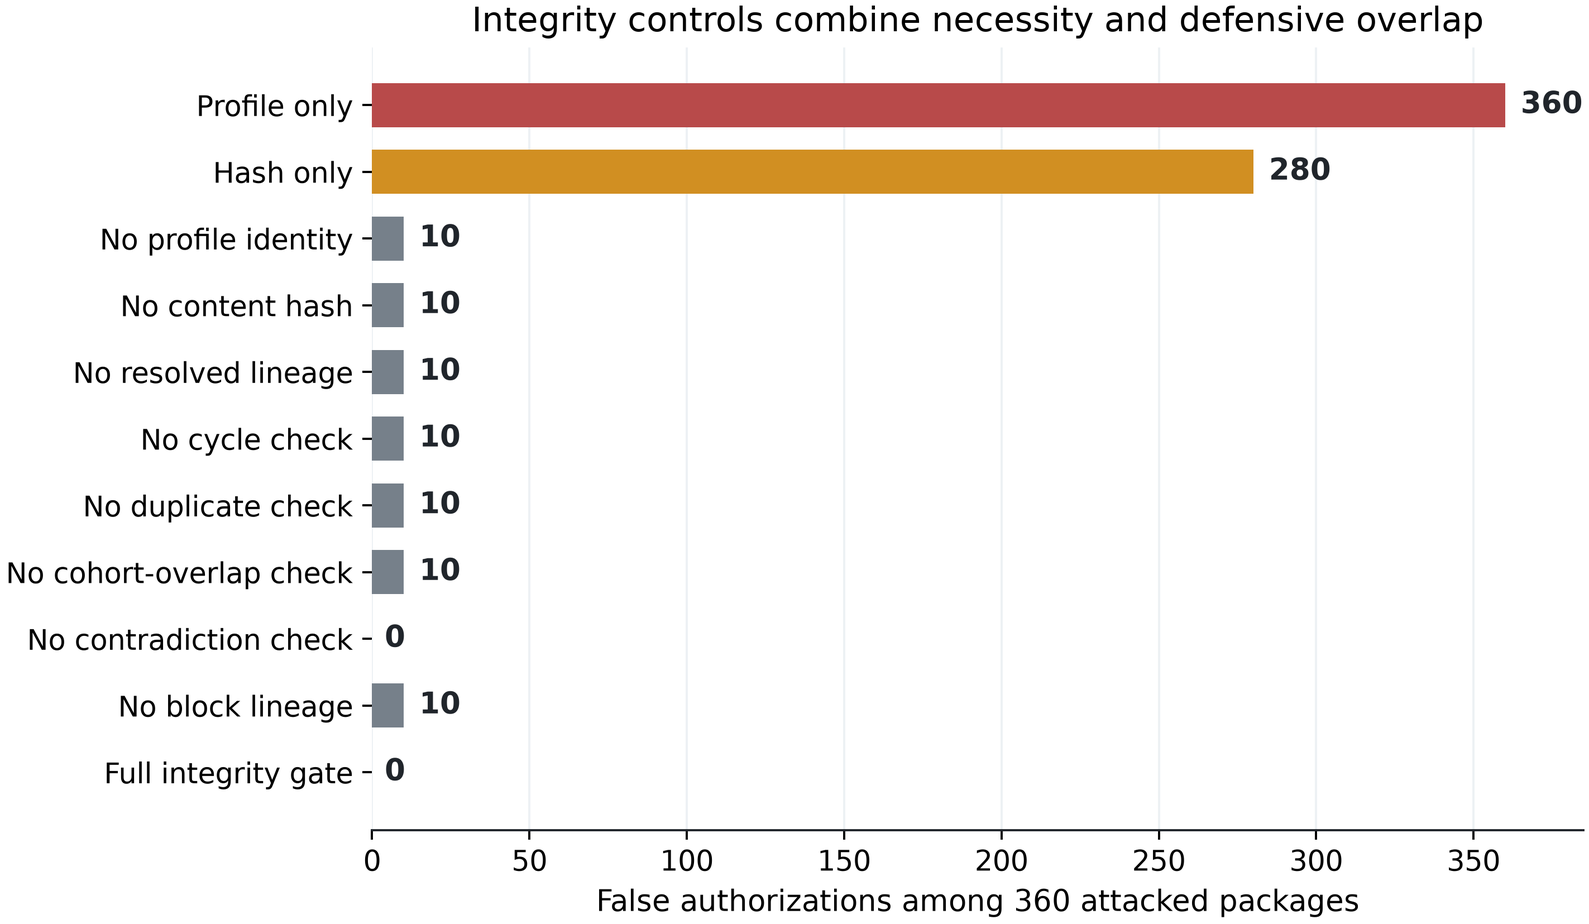
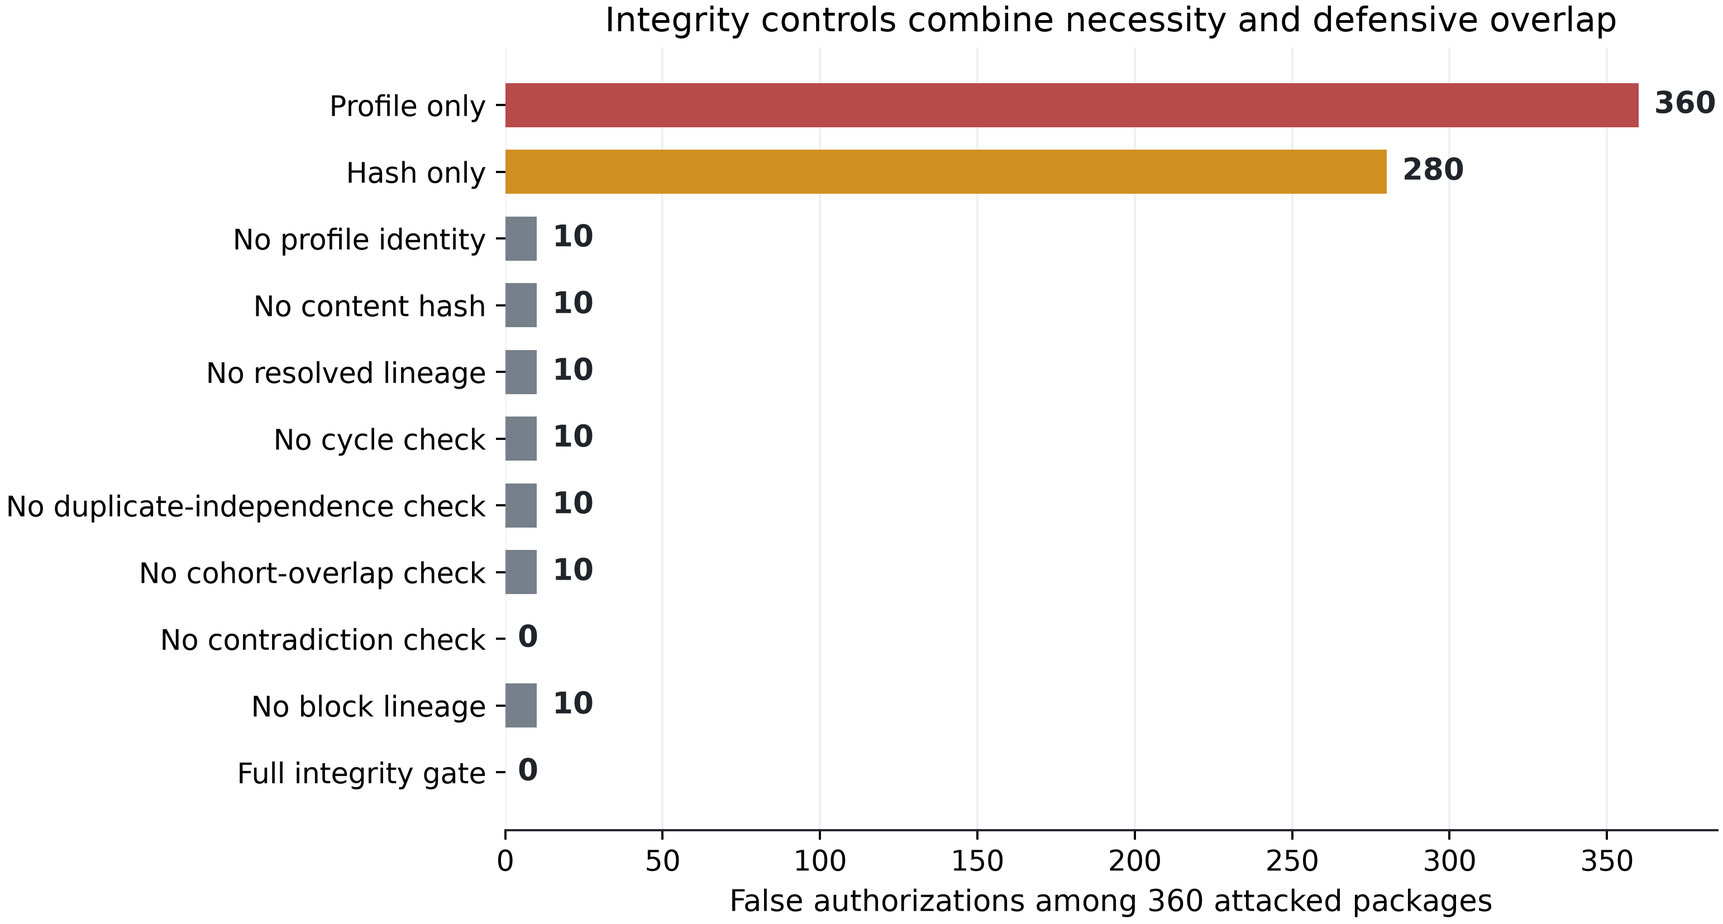
Apply KBS v0.12.5 closure corrections

diff --git a/tests/test_manuscript_quality.py b/tests/test_manuscript_quality.py
@@ -280,6 +280,49 @@ def test_final_review_integrity_notation_and_editorial_files_are_consistent() ->
     assert captions.count("Figure ") == 5
 
 
+def test_submission_closure_editorial_guards() -> None:
+    manuscript = "\n".join(
+        path.read_text(encoding="utf-8") for path in MANUSCRIPT_PATHS
+    )
+    highlights = (ROOT / "highlights.txt").read_text(encoding="utf-8")
+    readme = (ROOT / "README.md").read_text(encoding="utf-8")
+    bibliography = (ROOT / "references.bib").read_text(encoding="utf-8")
+    figure_source = (
+        ROOT / "scripts" / "build_standards_prospective_figures.py"
+    ).read_text(encoding="utf-8")
+
+    assert "2,550 declared attack compositions" not in highlights
+    assert (
+        "All 2,550 attacked packages across 255 compositions are blocked with exact traces."
+        in highlights
+    )
+    assert "complete and individually necessary deficits" not in highlights
+    assert "sufficient and individually necessary deficit sets" in highlights
+    assert "naive pair-level inference is anti-conservative" not in manuscript
+    assert (
+        "Shared-neuron dependence is explicitly addressed rather than treating "
+        "directed pairs as independent."
+    ) in manuscript
+    assert (
+        "Both DANDI outcomes are preserved without post-access changes to "
+        "endpoints, thresholds, or selection rules."
+    ) in manuscript
+    assert (
+        "For \\ac{microns}, the analysis direction is fixed in discovery and "
+        "subsequently evaluated in two pre-fixed hold-outs."
+    ) in manuscript
+    assert (
+        "dyadic covariance addresses the anti-conservative risk of treating "
+        "directed pairs as independent."
+    ) in manuscript
+    assert '"No duplicate check"' not in figure_source
+    assert '"No duplicate-independence check"' in figure_source
+    assert "`S && A && I`" not in readme
+    assert "`S && A && I_clean`" in readme
+    assert "10.18653/v1/2025.ijcnlp-long.127" in bibliography
+    assert "10.52202/079017-3777" in bibliography
+
+
 def test_release_version_is_consistent_across_user_facing_metadata() -> None:
     project = tomllib.loads((ROOT / "pyproject.toml").read_text(encoding="utf-8"))
     version = project["project"]["version"]
@@ -287,7 +330,7 @@ def test_release_version_is_consistent_across_user_facing_metadata() -> None:
     readme = (ROOT / "README.md").read_text(encoding="utf-8")
     main = (ROOT / "main.tex").read_text(encoding="utf-8")
 
-    assert version == "0.12.4"
+    assert version == "0.12.5"
     assert f"version: {version}" in citation
     assert f"v{version}" in readme
     assert f"v{version}" in main

diff --git a/paper/sections/introduction.tex b/paper/sections/introduction.tex
@@ -19,7 +19,7 @@ The paper makes the following contributions:
 \item An interoperable \ac{rdf}/\ac{prov} and JSON-LD representation with independently executed \ac{shacl} shapes. Python and a separately implemented \ac{asp} path agree on domain decisions and deficits across all 5,677 cases. \ac{shacl} independently recovers structural conformance and structural deficits without treating a scientific failure as malformed data.
 \item A one-edge structural policy perturbation over 221 profiles and 3,094 fixed profile--case evaluations, together with counterfactual tests of explanation sufficiency, minimality, witness coverage, and information retention.
 \item An explicit $S\land A\land I^{\mathrm{clean}}$ final gate with layer-resolved traces, evaluated over all eight logical states, component ablations, a 370-case benchmark and 2,550 attacked packages spanning all 255 compositions of eight historical attack families, a 100-package nine-family regression suite, six direct API edge cases, and 20 coherent-forgery controls.
-\item Two pre-access frozen applications to external \ac{dandi}/\ac{nwb} resources, a post-outcome threshold-sensitivity analysis that does not replace their criteria, and a dependence-aware \ac{microns} application. Positive and negative outcomes are preserved without changing endpoints, thresholds, or selection rules after numerical access.
+\item Two pre-access frozen applications to external \ac{dandi}/\ac{nwb} resources, a post-outcome threshold-sensitivity analysis that does not replace their criteria, and a dependence-aware \ac{microns} application. Both DANDI outcomes are preserved without post-access changes to endpoints, thresholds, or selection rules. For \ac{microns}, the analysis direction is fixed in discovery and subsequently evaluated in two pre-fixed hold-outs.
 \end{itemize}
 
 The claimed novelty is the evaluated composition of these elements for artifact-grounded scientific authorization. The work does not claim to invent assurance cases, graph validation, provenance ontologies, formal rule checking, or scientific fact verification. It also does not claim a consensus taxonomy, automatic peer review, biological truth, causal identification from observational data, or a complete digital mouse brain. Section~\ref{sec:related-work} positions the contribution, Section~\ref{sec:method} defines the knowledge-based method, Section~\ref{sec:experiments} reports the experimental evaluation, and Sections~\ref{sec:discussion} and \ref{sec:conclusions} discuss its scope and conclusions.

diff --git a/sections/introduction.tex b/sections/introduction.tex
@@ -19,7 +19,7 @@ The paper makes the following contributions:
 \item An interoperable \ac{rdf}/\ac{prov} and JSON-LD representation with independently executed \ac{shacl} shapes. Python and a separately implemented \ac{asp} path agree on domain decisions and deficits across all 5,677 cases. \ac{shacl} independently recovers structural conformance and structural deficits without treating a scientific failure as malformed data.
 \item A one-edge structural policy perturbation over 221 profiles and 3,094 fixed profile--case evaluations, together with counterfactual tests of explanation sufficiency, minimality, witness coverage, and information retention.
 \item An explicit $S\land A\land I^{\mathrm{clean}}$ final gate with layer-resolved traces, evaluated over all eight logical states, component ablations, a 370-case benchmark and 2,550 attacked packages spanning all 255 compositions of eight historical attack families, a 100-package nine-family regression suite, six direct API edge cases, and 20 coherent-forgery controls.
-\item Two pre-access frozen applications to external \ac{dandi}/\ac{nwb} resources, a post-outcome threshold-sensitivity analysis that does not replace their criteria, and a dependence-aware \ac{microns} application. Positive and negative outcomes are preserved without changing endpoints, thresholds, or selection rules after numerical access.
+\item Two pre-access frozen applications to external \ac{dandi}/\ac{nwb} resources, a post-outcome threshold-sensitivity analysis that does not replace their criteria, and a dependence-aware \ac{microns} application. Both DANDI outcomes are preserved without post-access changes to endpoints, thresholds, or selection rules. For \ac{microns}, the analysis direction is fixed in discovery and subsequently evaluated in two pre-fixed hold-outs.
 \end{itemize}
 
 The claimed novelty is the evaluated composition of these elements for artifact-grounded scientific authorization. The work does not claim to invent assurance cases, graph validation, provenance ontologies, formal rule checking, or scientific fact verification. It also does not claim a consensus taxonomy, automatic peer review, biological truth, causal identification from observational data, or a complete digital mouse brain. Section~\ref{sec:related-work} positions the contribution, Section~\ref{sec:method} defines the knowledge-based method, Section~\ref{sec:experiments} reports the experimental evaluation, and Sections~\ref{sec:discussion} and \ref{sec:conclusions} discuss its scope and conclusions.

diff --git a/paper/sections/discussion.tex b/paper/sections/discussion.tex
@@ -12,7 +12,7 @@ The one-edge result is an expected monotonicity probe, not broad policy validati
 
 The 2,550 attacked packages cover every composition of the eight historical families for every claim, but remain specification-driven. The nine-family suite and direct API regressions extend this controlled scope. All 20 coherent forgeries escape because synchronized false content, hashes, or independence metadata create no observable contradiction. The result identifies both controlled robustness and the trust boundary. It does not address digital signatures, archive compromise, adaptive attacks, or unmodelled dependence.
 
-The prospective applications test protocol discipline rather than independent discovery. DANDI:000039 uses a deliberately simple Ridge model and author-defined criteria without established criterion validity. DANDI:001176 retains its availability refusal when only 5 of 29 listed subjects meet the frozen schema. The post-outcome sensitivity analysis exposes decision margins without replacing either rule. In \ac{microns}, dyadic covariance shows that naive pair-level inference is anti-conservative. Discovery fixes the direction, and both pre-fixed hold-outs confirm the local observational association. One cortical volume cannot establish a synaptic mechanism, external replication, or a complete visual-cortex model.
+The prospective applications test protocol discipline rather than independent discovery. DANDI:000039 uses a deliberately simple Ridge model and author-defined criteria without established criterion validity. DANDI:001176 retains its availability refusal when only 5 of 29 listed subjects meet the frozen schema. The post-outcome sensitivity analysis exposes decision margins without replacing either rule. In \ac{microns}, dyadic covariance addresses the anti-conservative risk of treating directed pairs as independent. Discovery fixes the direction, and both pre-fixed hold-outs confirm the local observational association. One cortical volume cannot establish a synaptic mechanism, external replication, or a complete visual-cortex model.
 
 \paragraph{Lessons learned}\label{par:lessons-learned}
 Four lessons follow. Structural conformance should use a standard engine. Provenance must record dependence claims, not only locations. Negative outcomes should remain release artifacts. Category-complete traces should retain every violated dimension and an actionable witness, but need not enumerate redundant occurrences. Their value to human reviewers remains unmeasured.

diff --git a/sections/discussion.tex b/sections/discussion.tex
@@ -12,7 +12,7 @@ The one-edge result is an expected monotonicity probe, not broad policy validati
 
 The 2,550 attacked packages cover every composition of the eight historical families for every claim, but remain specification-driven. The nine-family suite and direct API regressions extend this controlled scope. All 20 coherent forgeries escape because synchronized false content, hashes, or independence metadata create no observable contradiction. The result identifies both controlled robustness and the trust boundary. It does not address digital signatures, archive compromise, adaptive attacks, or unmodelled dependence.
 
-The prospective applications test protocol discipline rather than independent discovery. DANDI:000039 uses a deliberately simple Ridge model and author-defined criteria without established criterion validity. DANDI:001176 retains its availability refusal when only 5 of 29 listed subjects meet the frozen schema. The post-outcome sensitivity analysis exposes decision margins without replacing either rule. In \ac{microns}, dyadic covariance shows that naive pair-level inference is anti-conservative. Discovery fixes the direction, and both pre-fixed hold-outs confirm the local observational association. One cortical volume cannot establish a synaptic mechanism, external replication, or a complete visual-cortex model.
+The prospective applications test protocol discipline rather than independent discovery. DANDI:000039 uses a deliberately simple Ridge model and author-defined criteria without established criterion validity. DANDI:001176 retains its availability refusal when only 5 of 29 listed subjects meet the frozen schema. The post-outcome sensitivity analysis exposes decision margins without replacing either rule. In \ac{microns}, dyadic covariance addresses the anti-conservative risk of treating directed pairs as independent. Discovery fixes the direction, and both pre-fixed hold-outs confirm the local observational association. One cortical volume cannot establish a synaptic mechanism, external replication, or a complete visual-cortex model.
 
 \paragraph{Lessons learned}\label{par:lessons-learned}
 Four lessons follow. Structural conformance should use a standard engine. Provenance must record dependence claims, not only locations. Negative outcomes should remain release artifacts. Category-complete traces should retain every violated dimension and an actionable witness, but need not enumerate redundant occurrences. Their value to human reviewers remains unmeasured.

diff --git a/paper/sections/experiments.tex b/paper/sections/experiments.tex
@@ -117,7 +117,7 @@ Batch throughput ranges from 27,653 to 52,816 authorizations per second. Median 
 
 The retrospective mapping evaluates five bounded targets and five strict digital-twin claims. Static Sensorium authorizes prediction, \ac{ibl} authorizes topology-specific behavioural prediction, and \ac{microns} authorizes one local observational association. Allen directed topology lacks several required blocks, while Dynamic Sensorium retains a response-reliability review state. No case authorizes the strict digital-twin claim.
 
-The dependence-aware \ac{microns} analysis changes the status of the local association without changing its scope. Table~\ref{tab:microns-dyadic-results} reports cohort size, pair counts, effect estimates, uncertainty, and both inferential checks. No permuted statistic is at least as large as the observed positive statistic in any window. With 1,000 permutations, the finite-permutation corrected value is therefore $p=1/1001\approx0.001$ in each window. The discovery value is descriptive because that window selected the positive direction. Both pre-fixed hold-outs independently pass the positive coefficient, two-sided dyadic, and one-sided permutation criteria. Shared-neuron dependence is addressed more conservatively than naive pair-level inference. All windows nevertheless come from one \ac{microns} volume, and readout-location similarity is a derived functional descriptor rather than a causal measurement.
+The dependence-aware \ac{microns} analysis changes the status of the local association without changing its scope. Table~\ref{tab:microns-dyadic-results} reports cohort size, pair counts, effect estimates, uncertainty, and both inferential checks. No permuted statistic is at least as large as the observed positive statistic in any window. With 1,000 permutations, the finite-permutation corrected value is therefore $p=1/1001\approx0.001$ in each window. The discovery value is descriptive because that window selected the positive direction. Both pre-fixed hold-outs independently pass the positive coefficient, two-sided dyadic, and one-sided permutation criteria. Shared-neuron dependence is explicitly addressed rather than treating directed pairs as independent. All windows nevertheless come from one \ac{microns} volume, and readout-location similarity is a derived functional descriptor rather than a causal measurement.
 
 \input{tables/microns_dyadic_results}
 

diff --git a/sections/experiments.tex b/sections/experiments.tex
@@ -117,7 +117,7 @@ Batch throughput ranges from 27,653 to 52,816 authorizations per second. Median 
 
 The retrospective mapping evaluates five bounded targets and five strict digital-twin claims. Static Sensorium authorizes prediction, \ac{ibl} authorizes topology-specific behavioural prediction, and \ac{microns} authorizes one local observational association. Allen directed topology lacks several required blocks, while Dynamic Sensorium retains a response-reliability review state. No case authorizes the strict digital-twin claim.
 
-The dependence-aware \ac{microns} analysis changes the status of the local association without changing its scope. Table~\ref{tab:microns-dyadic-results} reports cohort size, pair counts, effect estimates, uncertainty, and both inferential checks. No permuted statistic is at least as large as the observed positive statistic in any window. With 1,000 permutations, the finite-permutation corrected value is therefore $p=1/1001\approx0.001$ in each window. The discovery value is descriptive because that window selected the positive direction. Both pre-fixed hold-outs independently pass the positive coefficient, two-sided dyadic, and one-sided permutation criteria. Shared-neuron dependence is addressed more conservatively than naive pair-level inference. All windows nevertheless come from one \ac{microns} volume, and readout-location similarity is a derived functional descriptor rather than a causal measurement.
+The dependence-aware \ac{microns} analysis changes the status of the local association without changing its scope. Table~\ref{tab:microns-dyadic-results} reports cohort size, pair counts, effect estimates, uncertainty, and both inferential checks. No permuted statistic is at least as large as the observed positive statistic in any window. With 1,000 permutations, the finite-permutation corrected value is therefore $p=1/1001\approx0.001$ in each window. The discovery value is descriptive because that window selected the positive direction. Both pre-fixed hold-outs independently pass the positive coefficient, two-sided dyadic, and one-sided permutation criteria. Shared-neuron dependence is explicitly addressed rather than treating directed pairs as independent. All windows nevertheless come from one \ac{microns} volume, and readout-location similarity is a derived functional descriptor rather than a causal measurement.
 
 \input{tables/microns_dyadic_results}
 

diff --git a/main.tex b/main.tex
@@ -121,7 +121,7 @@ The authors declare no known competing financial interests or personal relations
 
 \section*{Data and Code Availability}
 \label{sec:data-code-availability}
-The source code, knowledge profiles, tests, frozen protocols, lightweight result artifacts, and manuscript are maintained in the public MouseClaimBench repository at \url{https://github.com/Fiutten/MouseClaimBench}. The software snapshot used for this revision is released as tag \texttt{v0.12.4} at \url{https://github.com/Fiutten/MouseClaimBench/tree/v0.12.4}. Each regenerated revision artifact records the clean source commit used for its execution. Raw Allen, Sensorium, IBL, MICRONS, and DANDI data remain governed by their providers and are not redistributed. The prospective artifact manifests retain public identifiers, versions, sizes, and official hashes. Every reported result is linked to a recorded Git revision, and artifacts marked as dirty are excluded from the release gate. A persistent DOI has not been assigned, so the repository and tagged commit are reported without implying DOI-backed archival permanence.
+The source code, knowledge profiles, tests, frozen protocols, lightweight result artifacts, and manuscript are maintained in the public MouseClaimBench repository at \url{https://github.com/Fiutten/MouseClaimBench}. The software snapshot used for this revision is released as tag \texttt{v0.12.5} at \url{https://github.com/Fiutten/MouseClaimBench/tree/v0.12.5}. Each regenerated revision artifact records the clean source commit used for its execution. Raw Allen, Sensorium, IBL, MICRONS, and DANDI data remain governed by their providers and are not redistributed. The prospective artifact manifests retain public identifiers, versions, sizes, and official hashes. Every reported result is linked to a recorded Git revision, and artifacts marked as dirty are excluded from the release gate. A persistent DOI has not been assigned, so the repository and tagged commit are reported without implying DOI-backed archival permanence.
 
 \section*{Declaration of generative AI and AI-assisted technologies in the manuscript preparation process}
 \label{sec:generative-ai}

diff --git a/paper/main.tex b/paper/main.tex
@@ -121,7 +121,7 @@ The authors declare no known competing financial interests or personal relations
 
 \section*{Data and Code Availability}
 \label{sec:data-code-availability}
-The source code, knowledge profiles, tests, frozen protocols, lightweight result artifacts, and manuscript are maintained in the public MouseClaimBench repository at \url{https://github.com/Fiutten/MouseClaimBench}. The software snapshot used for this revision is released as tag \texttt{v0.12.4} at \url{https://github.com/Fiutten/MouseClaimBench/tree/v0.12.4}. Each regenerated revision artifact records the clean source commit used for its execution. Raw Allen, Sensorium, IBL, MICRONS, and DANDI data remain governed by their providers and are not redistributed. The prospective artifact manifests retain public identifiers, versions, sizes, and official hashes. Every reported result is linked to a recorded Git revision, and artifacts marked as dirty are excluded from the release gate. A persistent DOI has not been assigned, so the repository and tagged commit are reported without implying DOI-backed archival permanence.
+The source code, knowledge profiles, tests, frozen protocols, lightweight result artifacts, and manuscript are maintained in the public MouseClaimBench repository at \url{https://github.com/Fiutten/MouseClaimBench}. The software snapshot used for this revision is released as tag \texttt{v0.12.5} at \url{https://github.com/Fiutten/MouseClaimBench/tree/v0.12.5}. Each regenerated revision artifact records the clean source commit used for its execution. Raw Allen, Sensorium, IBL, MICRONS, and DANDI data remain governed by their providers and are not redistributed. The prospective artifact manifests retain public identifiers, versions, sizes, and official hashes. Every reported result is linked to a recorded Git revision, and artifacts marked as dirty are excluded from the release gate. A persistent DOI has not been assigned, so the repository and tagged commit are reported without implying DOI-backed archival permanence.
 
 \section*{Declaration of generative AI and AI-assisted technologies in the manuscript preparation process}
 \label{sec:generative-ai}

diff --git a/scripts/build_standards_prospective_figures.py b/scripts/build_standards_prospective_figures.py
@@ -284,7 +284,7 @@ def integrity_ablation() -> None:
         "No content hash",
         "No resolved lineage",
         "No cycle check",
-        "No duplicate check",
+        "No duplicate-independence check",
         "No cohort-overlap check",
         "No contradiction check",
         "No block lineage",

diff --git a/mousebrainbench/__init__.py b/mousebrainbench/__init__.py
@@ -3,4 +3,4 @@
 from mousebrainbench.schemas import BrainRegion, ConnectivityMatrix, SimulationState
 
 __all__ = ["BrainRegion", "ConnectivityMatrix", "SimulationState"]
-__version__ = "0.12.4"
+__version__ = "0.12.5"

diff --git a/README.md b/README.md
@@ -12,7 +12,7 @@ that the supplied package satisfies the named profile version.
 
 ## Current research release
 
-The current revision candidate is the `v0.12.4` three-gate release. It
+The current revision candidate is the `v0.12.5` three-gate release. It
 preserves the submitted data analyses while aligning the mathematical model,
 software, tests, benchmarks, and manuscript. The knowledge architecture
 separates three layers and composes them only at the final gate:
@@ -82,7 +82,7 @@ The release gate verifies the following results from clean source revisions:
 | Contract mutation | 5,677 cases, zero false authorizations or rejections, exact domain deficits | Profile-relative conformance |
 | Python/ASP | Exact domain-status and deficit agreement across all 5,677 cases | Independent rule-execution conformance |
 | SHACL | Exact structural conformance and structural deficits across the same 5,677 packages | External graph-contract conformance |
-| Final gate | All 8 logical combinations reproduce `S && A && I` | Non-compensatory composition only |
+| Final gate | All 8 logical combinations reproduce `S && A && I_clean` | Non-compensatory composition only |
 | Domain-gate properties | 55,031 deterministic checks over 10,000 packages, zero violations | Six properties and outside closure for core authorization, not arbitrary final-package changes |
 | JSON-LD interchange | Five representative package graphs preserve graph isomorphism | Serializer interoperability across pristine, failed, incomplete, rich-manifest, and large-package cases |
 | Original integrity benchmark | 370 packages: 10 pristine and 360 single/pairwise attacked packages over eight historical families | Resistance to the declared original attacks |
